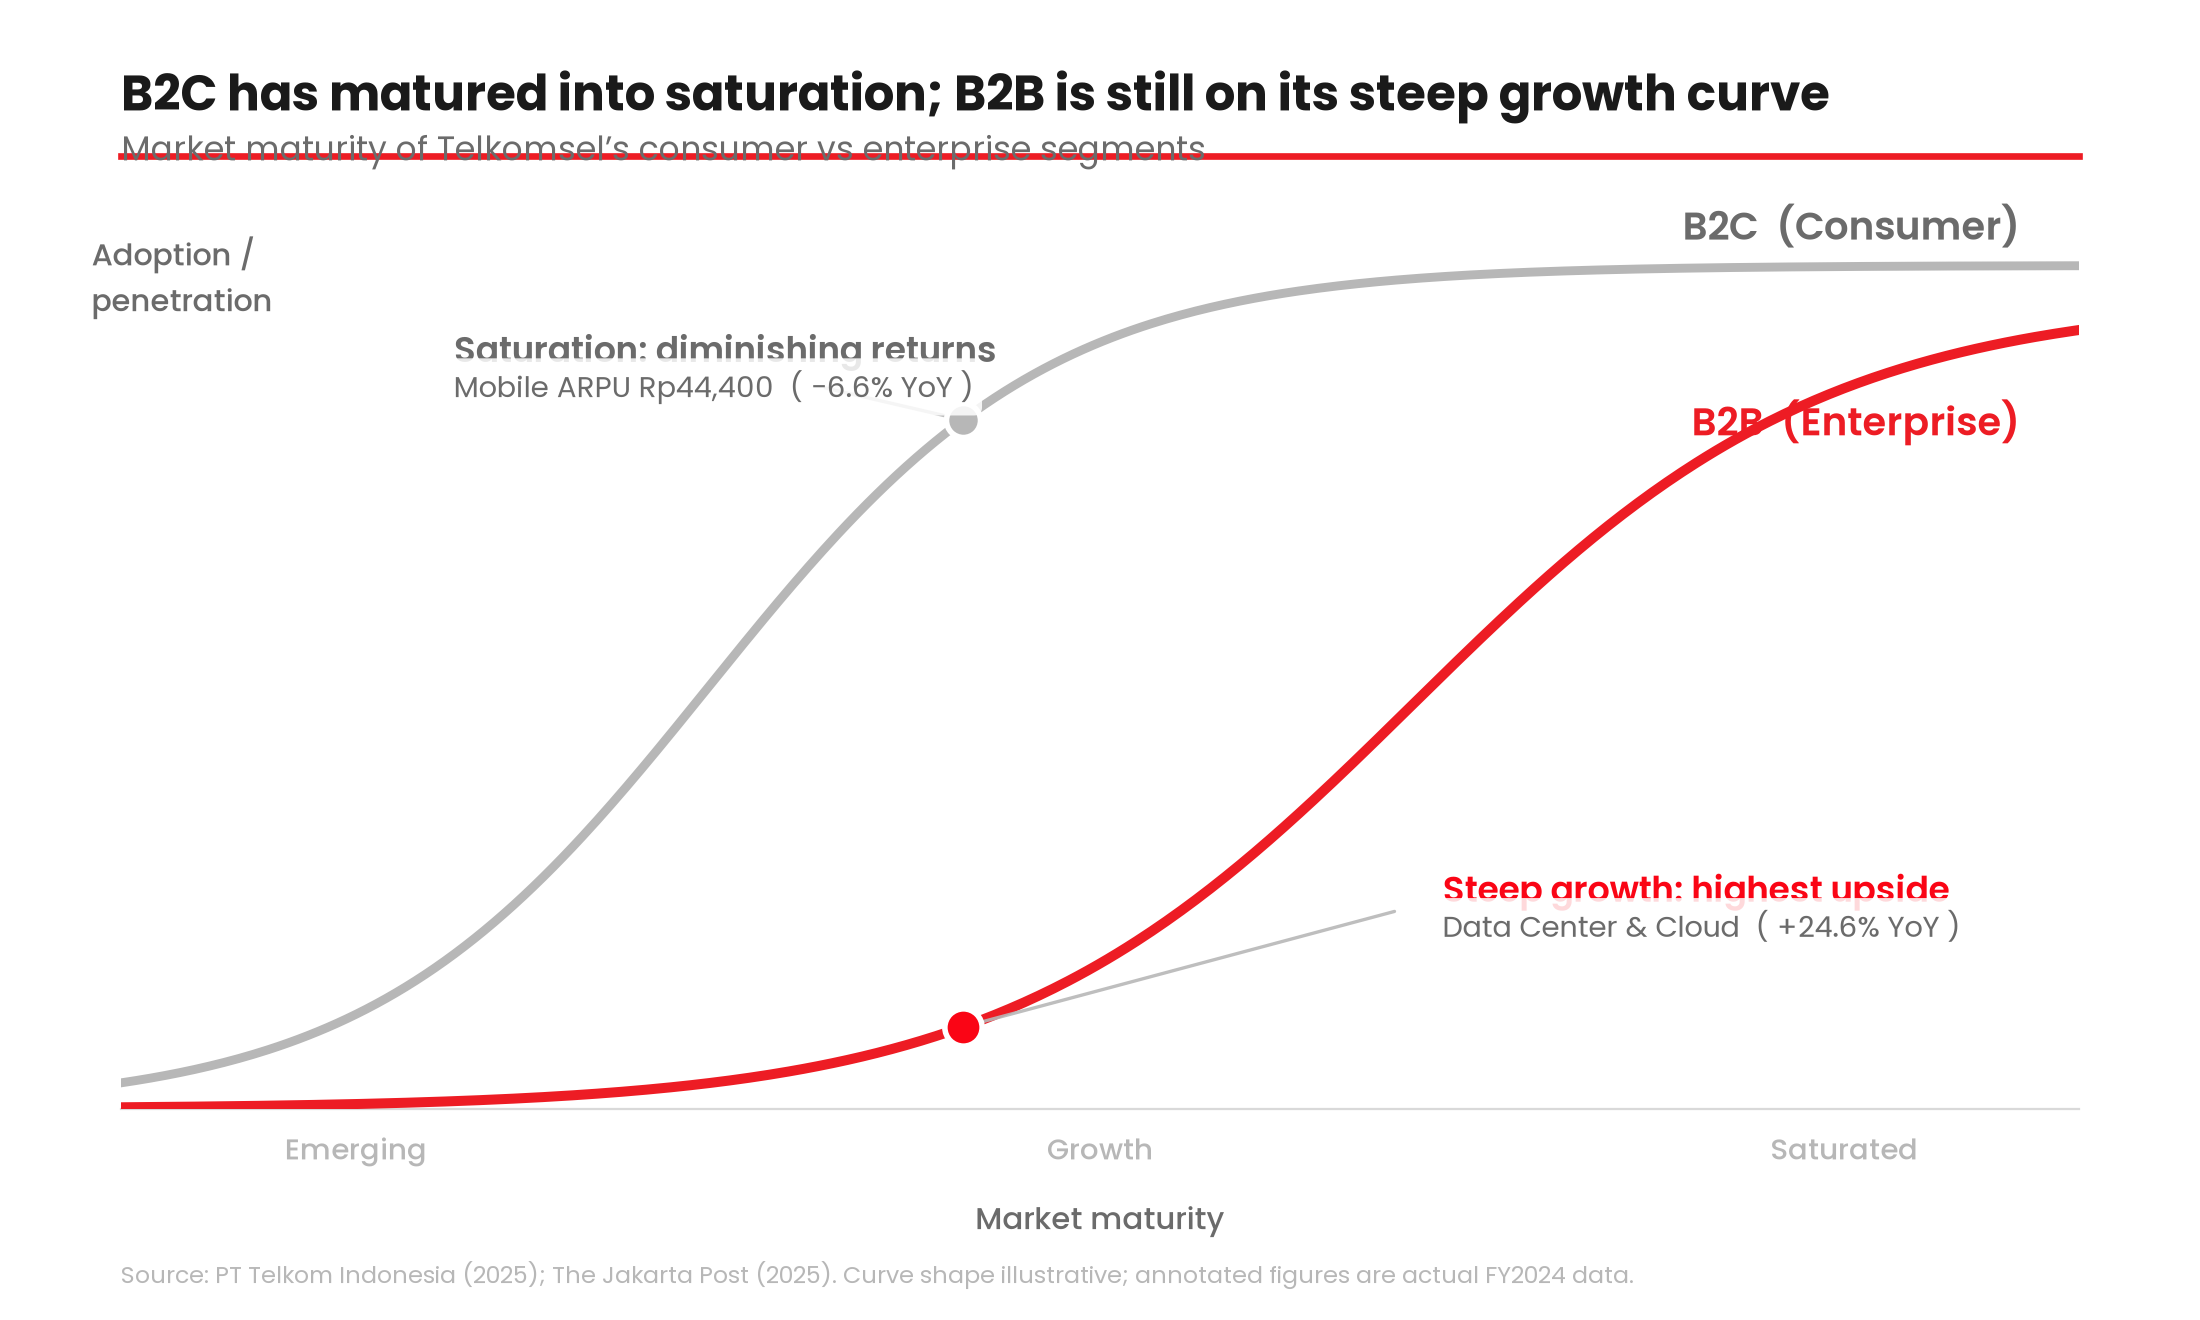
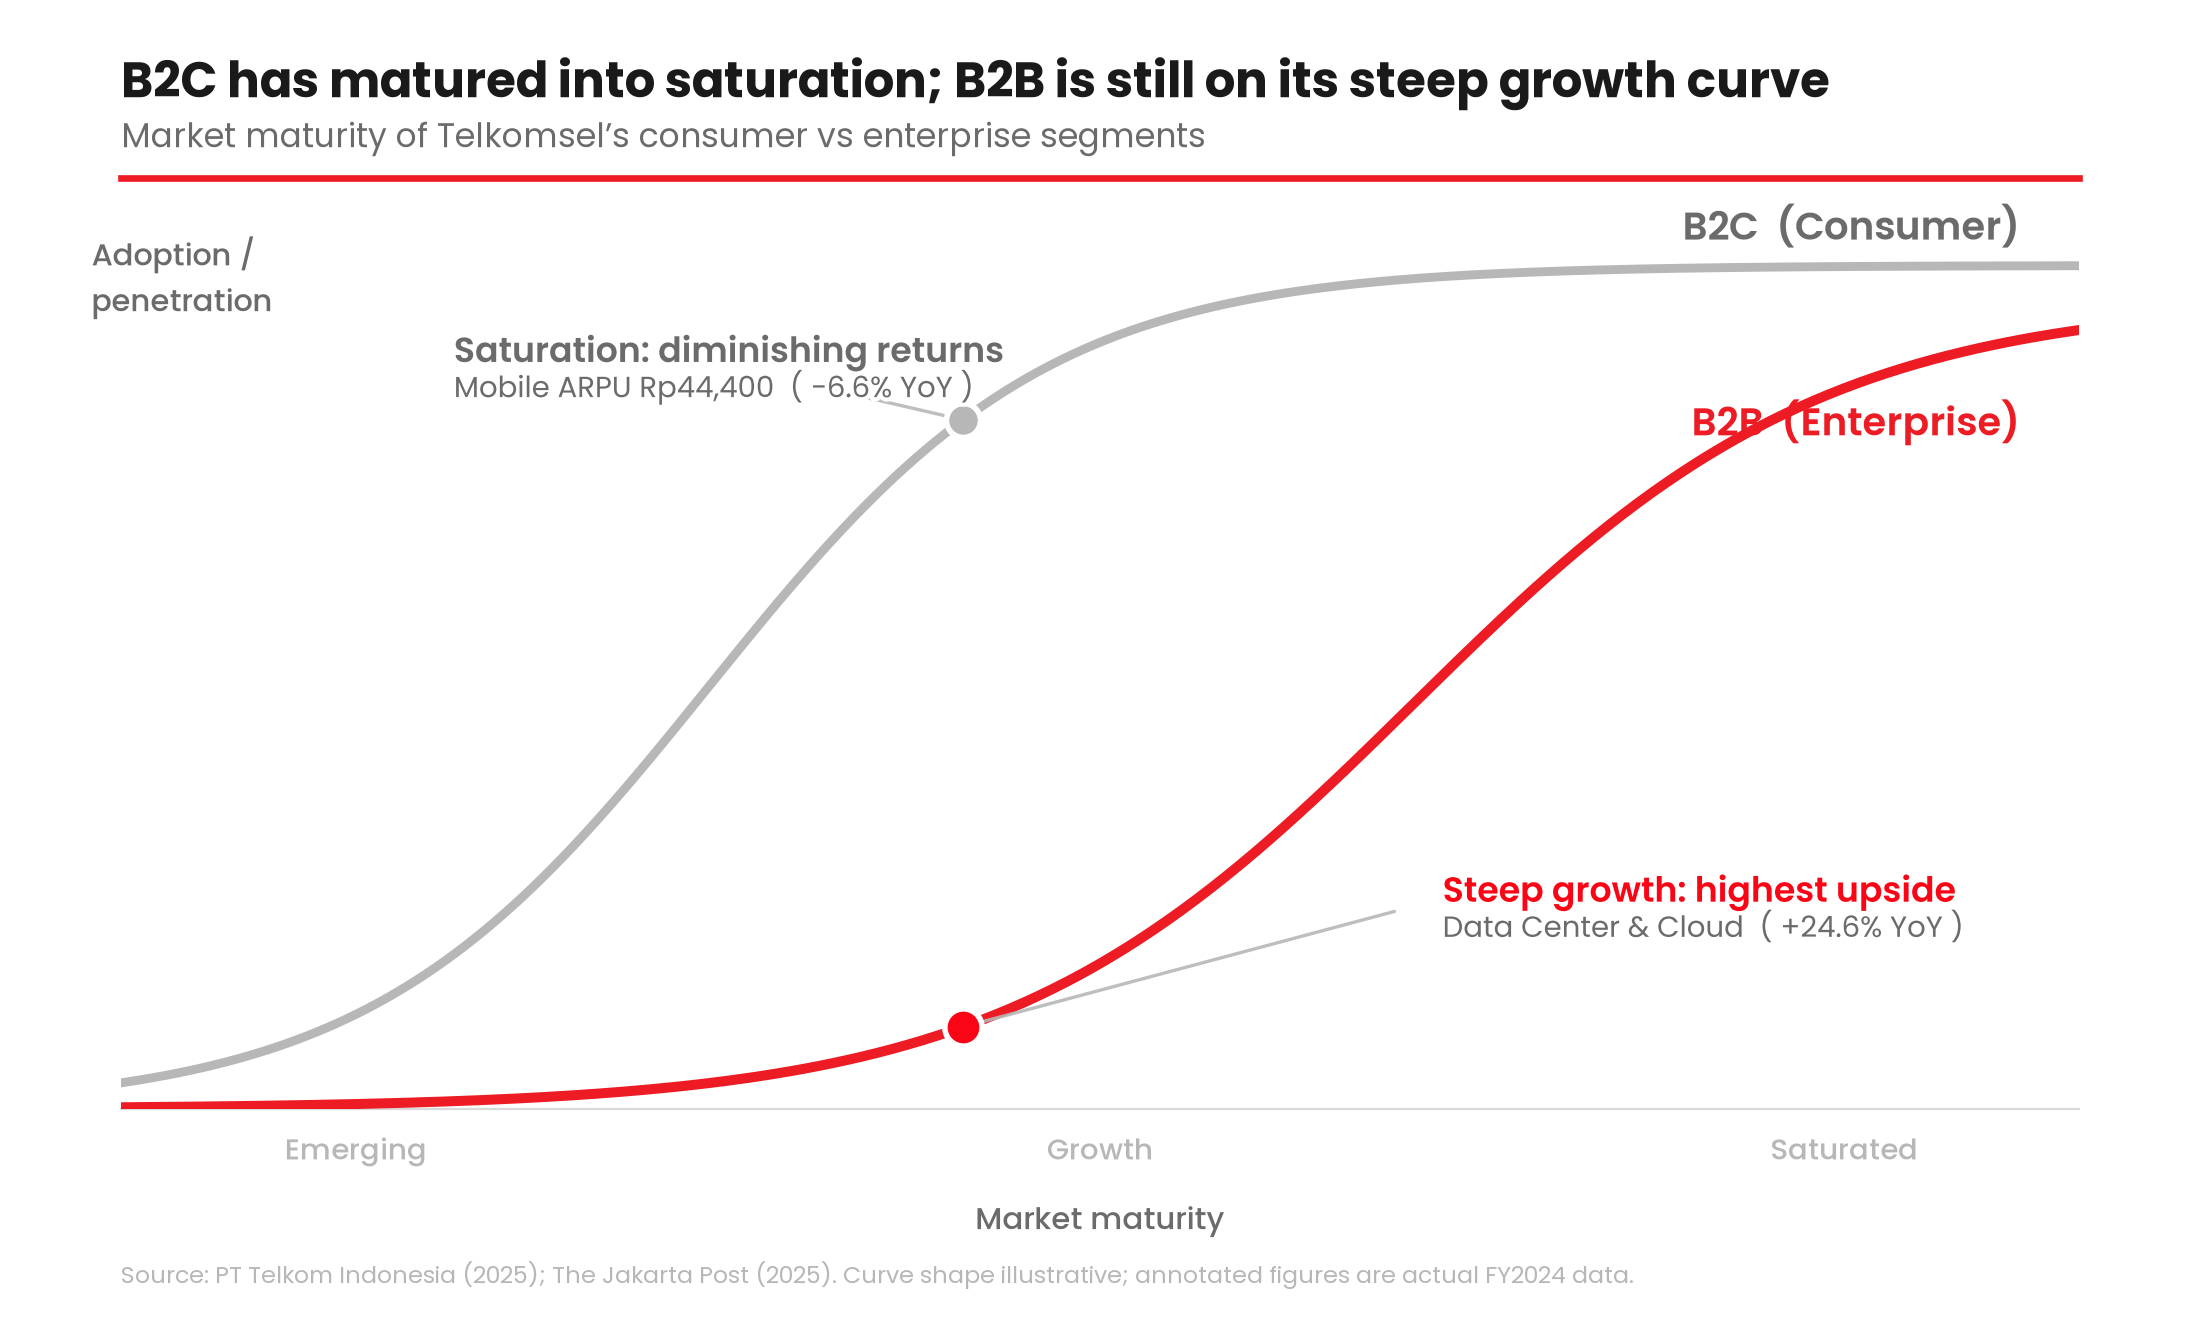
Fix round-2 chart bugs: accent rule, ghost text, bubble labels
BUG 1 (both charts): raise title/subtitle block and lower the red accent
rule (0.865) so it sits in clean whitespace below the subtitle, touching
no glyphs.

BUG 2 (chart 1): replace the semi-transparent halo bbox with a fully
opaque white path-effects stroke (alpha=1.0, zorder=10) — eliminates the
faded/ghost lower half on the annotation text.

BUG 3 (chart 2): move all bubble labels outside their bubbles in dark ink
SemiBold (above for low CPaaS/IoT bubbles, below otherwise), offset by
bubble radius; remove the in-bubble white text and the bright-red inner
core ring on 5G+MEC.

Claude-Session: https://claude.ai/code/session_01B6MRhobNANg7BdfpNzZZuG

Changed region(s): [[0.0309, 0.0311, 0.9582, 0.1553], [0.6491, 0.6523, 0.8964, 0.7144], [0.2164, 0.2485, 0.4636, 0.3106]]

diff --git a/make_charts.py b/make_charts.py
@@ -4,6 +4,8 @@ matplotlib.use("Agg")
 import matplotlib.pyplot as plt
 import matplotlib.font_manager as fm
 from matplotlib.patches import FancyArrowPatch, Rectangle
+import matplotlib.patheffects as pe
+import math
 import os
 
 # ---------- Fonts ----------
@@ -61,18 +63,18 @@ ax.text(9.7, logistic(9.7,6.6,0.95,96)-6.5, "B2B  (Enterprise)", color=RED_TSEL,
         fontproperties=font(14, "SemiBold"), ha="right", va="top")
 
 # Annotation boxes \u2014 text placed in clear whitespace, connected to its marker
-# by a thin leader line; a white halo behind each text keeps any residual
-# line-crossing legible.
-_HALO = dict(boxstyle="round,pad=0.28", facecolor="white", edgecolor="none", alpha=0.85)
+# by a thin leader line. A fully opaque white stroke behind each glyph keeps any
+# residual line-crossing legible without the ghosting a semi-transparent bbox caused.
+_STROKE = [pe.withStroke(linewidth=3, foreground="white")]
 def anno(mx, my, lx, ly, tx, ty, title, sub, color, ha="left"):
     # leader: marker -> block, in the de-emphasis gray, pulled clear of both ends
     ax.annotate("", xy=(mx, my), xytext=(lx, ly),
                 arrowprops=dict(arrowstyle="-", color=GRAY_MID, lw=1.2, alpha=0.9,
                                 shrinkA=7, shrinkB=3), zorder=4)
     ax.text(tx, ty, title, color=color, fontproperties=font(12.5, "SemiBold"),
-            ha=ha, va="center", bbox=_HALO, zorder=8)
+            ha=ha, va="center", alpha=1.0, zorder=10, path_effects=_STROKE)
     ax.text(tx, ty-4.4, sub, color=GRAY_TXT, fontproperties=font(10.5),
-            ha=ha, va="center", bbox=_HALO, zorder=8)
+            ha=ha, va="center", alpha=1.0, zorder=10, path_effects=_STROKE)
 
 # B2C block -> upper-left whitespace (above the gray curve, clear of the y-axis label)
 anno(b2c_here_x, b2c_here_y, 3.5, 86, 1.7, 90,
@@ -103,12 +105,12 @@ ax.text(-0.15, 104, "Adoption /\npenetration", color=GRAY_TXT, fontproperties=fo
         ha="left", va="top")
 
 # Titles (action title, left aligned)
-fig.text(0.055, 0.955, "B2C has matured into saturation; B2B is still on its steep growth curve",
+fig.text(0.055, 0.965, "B2C has matured into saturation; B2B is still on its steep growth curve",
          fontproperties=font(17.5, "Bold"), color=INK, ha="left", va="top")
-fig.text(0.055, 0.905, "Market maturity of Telkomsel\u2019s consumer vs enterprise segments",
+fig.text(0.055, 0.915, "Market maturity of Telkomsel\u2019s consumer vs enterprise segments",
          fontproperties=font(12), color=GRAY_TXT, ha="left", va="top")
-# top accent rule
-fig.add_artist(plt.Line2D([0.055,0.945],[0.882,0.882], color=RED_TSEL, lw=2.4, transform=fig.transFigure))
+# top accent rule \u2014 clearly below the subtitle, in clean whitespace
+fig.add_artist(plt.Line2D([0.055,0.945],[0.865,0.865], color=RED_TSEL, lw=2.4, transform=fig.transFigure))
 
 fig.text(0.055, 0.028, "Source: PT Telkom Indonesia (2025); The Jakarta Post (2025). Curve shape illustrative; annotated figures are actual FY2024 data.",
          fontproperties=font(8.5), color=GRAY_MID, ha="left")
@@ -151,16 +153,24 @@ edge_map  = {"gray": "#9a9a9a", "near": "#d9740a", "win": "#b3141b"}
 def bsize(s):  # scalability -> area
     return (s ** 2) * 46
 
+# bubble radius (data units) from marker area, for placing labels clear of the edge.
+# ~50 pt per y data-unit given this figure size / axis range.
+def r_data(s):
+    return math.sqrt(bsize(s) / math.pi) / 50.0
+
+LABEL_ABOVE = {"CPaaS", "IoT"}  # low bubbles: label above so it clears axis/source
 for name, xf, yr, sc, cat in items:
     col = color_map[cat]
     ax.scatter([xf],[yr], s=bsize(sc), color=col, alpha=0.9,
                edgecolor=edge_map[cat], lw=1.6, zorder=5)
-    # 5G+MEC special: bright red core ring
-    if name == "5G + MEC":
-        ax.scatter([xf],[yr], s=bsize(sc)*0.30, color=RED_BRIGHT, edgecolor="white", lw=1.2, zorder=6)
-    txt_col = "white" if cat in ("win","near") else INK
-    ax.text(xf, yr, name, color=txt_col, fontproperties=font(10.5, "SemiBold"),
-            ha="center", va="center", zorder=7, linespacing=1.0)
+    # labels sit OUTSIDE the bubble, dark ink, always fully legible
+    gap = r_data(sc) + 0.42
+    if name in LABEL_ABOVE:
+        ax.text(xf, yr + gap, name, color=INK, fontproperties=font(10.5, "SemiBold"),
+                ha="center", va="bottom", zorder=8, linespacing=1.0)
+    else:
+        ax.text(xf, yr - gap, name, color=INK, fontproperties=font(10.5, "SemiBold"),
+                ha="center", va="top", zorder=8, linespacing=1.0)
 
 # axis labels
 ax.set_xlabel("Strategic fit with 5G", fontproperties=font(12.5, "SemiBold"), color=INK, labelpad=10)
@@ -193,11 +203,12 @@ ax.text(lx-0.15, ly+0.78, "Bubble size = Scalability", color=GRAY_TXT,
         fontproperties=font(9.5, "SemiBold"), ha="left")
 
 # Titles
-fig.text(0.055, 0.955, "5G + MEC and Private 5G occupy the high-value, high-fit quadrant",
+fig.text(0.055, 0.965, "5G + MEC and Private 5G occupy the high-value, high-fit quadrant",
          fontproperties=font(17.5, "Bold"), color=INK, ha="left", va="top")
-fig.text(0.055, 0.905, "B2B technology opportunities scored on revenue potential vs strategic fit with 5G",
+fig.text(0.055, 0.915, "B2B technology opportunities scored on revenue potential vs strategic fit with 5G",
          fontproperties=font(12), color=GRAY_TXT, ha="left", va="top")
-fig.add_artist(plt.Line2D([0.055,0.945],[0.882,0.882], color=RED_TSEL, lw=2.4, transform=fig.transFigure))
+# top accent rule — clearly below the subtitle, in clean whitespace
+fig.add_artist(plt.Line2D([0.055,0.945],[0.865,0.865], color=RED_TSEL, lw=2.4, transform=fig.transFigure))
 
 fig.text(0.055, 0.030, "Source: Team assessment (1\u201310 scale), aligned with the FMEA strategic-value scoring in Appendix A. Market context: MarketsandMarkets (2025); Mordor Intelligence (2025).",
          fontproperties=font(8), color=GRAY_MID, ha="left")
